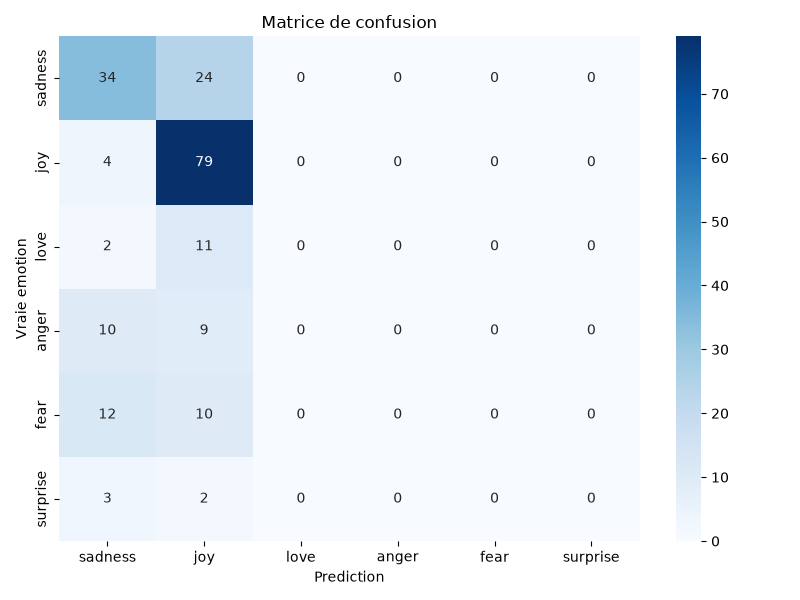
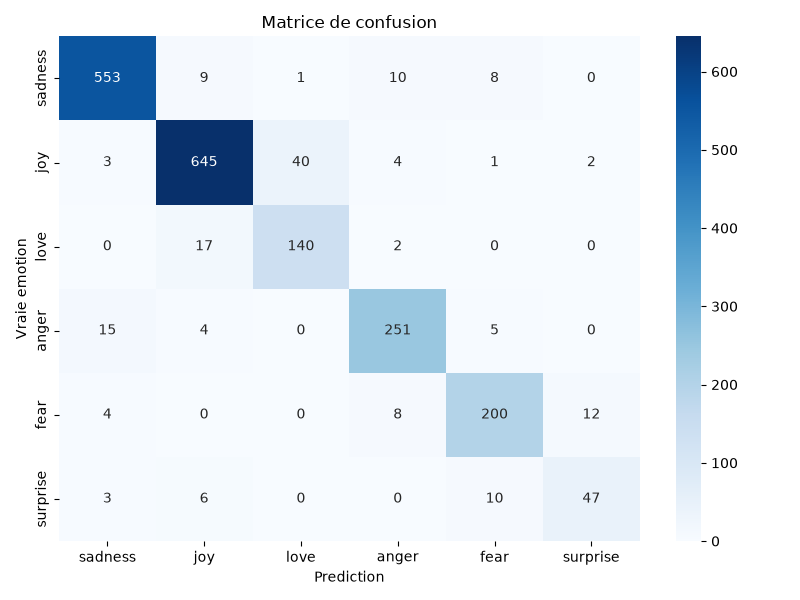
model

diff --git a/tri-messages-emotions/presentation/plan_presentation.md b/tri-messages-emotions/presentation/plan_presentation.md
@@ -33,7 +33,7 @@ Entree :
 Sortie :
 
 ```json
-{ "emotion": "joy", "confidence": 0.32 }
+{ "emotion": "joy", "confidence": 0.98 }
 ```
 
 ## 5. Front